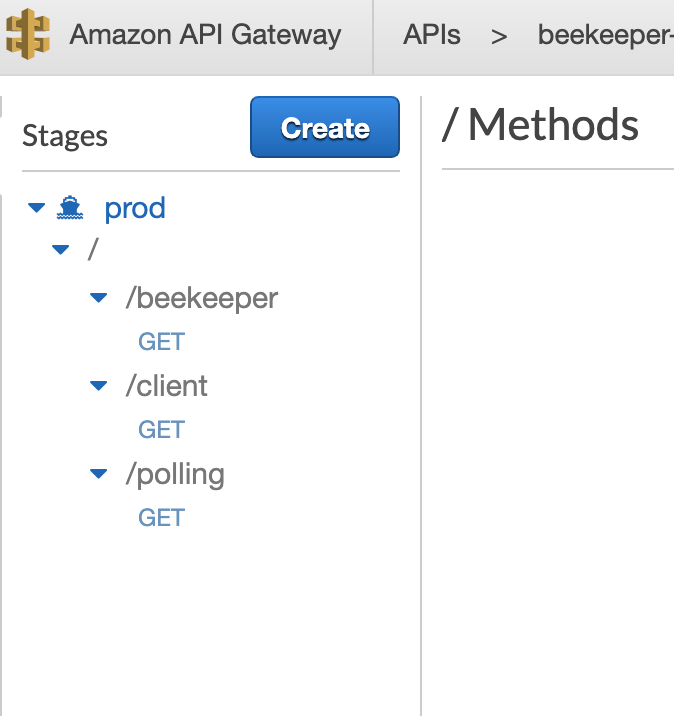
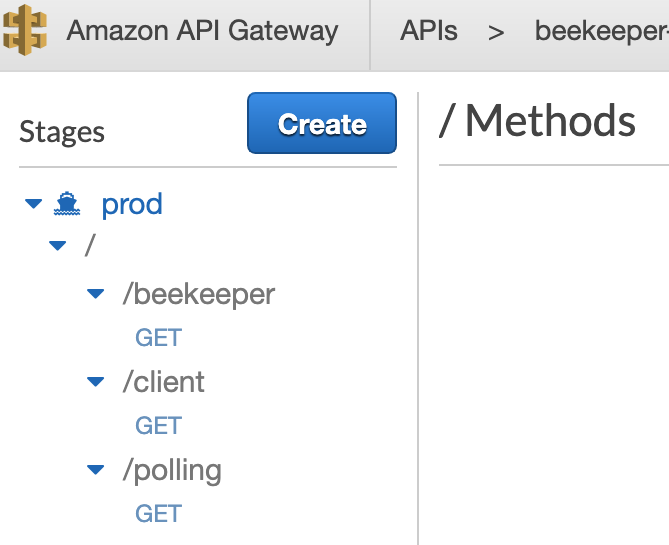
api gateway section edits

diff --git a/case-study.html b/case-study.html
@@ -178,7 +178,7 @@
           </div>
           <p>
             <strong>Step 3: The Producer Lambda is triggered.</strong>
-            A Lambda is a container that AWS spins up with your specified runtime environment, dependencies, and code in it. It’s a serverless compute service that runs code without having to provision resources or manage servers. The logic in the Producer Lambda does a few things. It first checks if the incoming request headers already have our cookie. If the incoming request does not have a cookie, a few additional steps take place. First, the Lambda generates a random token value. Second, the token is placed in a queue (SQS). Third, a cookie is set on the client with this token in it. Fourth, a response header is set that tells the browser when it receives the HTTP response from the API Gateway to redirect the client to the waiting room URL. This waiting room URL consists of static assets; an HTML file with JavaScript and CSS held in an AWS S3 bucket. We'll come back to this waiting room in the S3 bucket, but for now, let's continue by talking about what happens after the token gets put in the queue.
+            A Lambda is a container that AWS spins up with your specified runtime environment, dependencies, and code in it. It is a serverless compute service that runs code without having to provision resources or manage servers. The logic in the Producer Lambda does a few things. It first checks if the incoming request headers already have our cookie. If the incoming request does not have a cookie, a few additional steps take place. First, the Lambda generates a random token value. Second, the token is placed in a queue (SQS). Third, a cookie is set on the client with this token in it. Fourth, a response header is set that tells the browser when it receives the HTTP response from the API Gateway to redirect the client to the waiting room URL. This waiting room URL consists of static assets; an HTML file with JavaScript and CSS held in an AWS S3 bucket. We'll come back to this waiting room in the S3 bucket, but for now, let's continue by talking about what happens after the token gets put in the queue.
           </p>
           <div class="case-study-image">
             <img src="assets/images/case-study/beekeeper-infrastructure-flow/infra-flow-4.png" alt="infrastructure diagram step 4">
@@ -280,9 +280,6 @@
             For the vast majority of situations, even global promotions with a user in Hong Kong and an infrastructure in the United States, users will have the waiting room page loaded in an acceptable amount of time that does not give a "broken" feeling. Further, most events/promotions will have a more regional use case, typically within the same country.
           </p>
           <p>
-            In summary, a) there is little upside unless something about "hurry up to wait" sounds appealing, and b) most promotions are going to be regional in nature anyway.
-          </p>
-          <p>
             The extra complexity of making the waiting room and all its services edge optimized did not provide a commensurate benefit for Beekeeper given that it is a "waiting room." All Beekeeper's AWS services are located in a single region to be specified by Seal Brewing when deploying our NPM package; they can choose from one of 25 different AWS locations to deploy the infrastructure.
           </p>
           <p>
@@ -290,31 +287,22 @@
           </p>
           <h3>5.2 Choosing API Gateway</h3>
           <p>
-            When we first started designing Beekeeper we began with an infrastructure based on a waiting room in an S3 bucket on a CloudFront distribution. However, we still needed some logic in a Lambda and the only way to trigger a Lambda with that approach was using one of the CloudFront triggers AWS offers. That approach lacked flexibility because triggering a Lambda with a CloudFront trigger in our original design only allows logic to take place in the Lambda code. This means a Lambda must be used for every kind of request. Instead, we chose to use a different service offered by AWS called API Gateway. API Gateway is more flexible and powerful. Here's what the interface looks like in the AWS console:
+            When we first started designing Beekeeper we began with an infrastructure based on a waiting room in an S3 bucket on a CloudFront distribution. However, we still needed some logic in a Lambda and the only way to trigger a Lambda with that approach was using one of the CloudFront triggers AWS offers. That approach lacked flexibility because triggering a Lambda with a CloudFront trigger in our original design only allows logic to take place in the Lambda code. This means a Lambda must be used for every kind of request. Instead, we chose to use a different service offered by AWS called API Gateway. API Gateway is more flexible and powerful.
           </p>
-          <div class="case-study-image">
-            <img src="assets/images/case-study/api-gateway-screenshot.png" alt="api Gateway screenschot">
+          <div class="case-study-image api-images">
+            <img src="assets/images/case-study/Api_hub.png" alt="api Gateway hub">
           </div>
           <p>
-            What makes API Gateway powerful is how it provides an opportunity to perform checks and modify data at different stages of the HTTP request/response cycle. After a request from a client comes in, actions can be taken at both the Method Request and Integration Request stage before the request even gets to the Lambda being triggered. After the Lambda completes and passes the response back to the API Gateway, actions can be taken at both the Integration and Method Response stages before finally, the API Gateway sends a response back to the client.
+            What makes API Gateway powerful is it provides an opportunity to perform checks and modify data at different stages of the HTTP request/response cycle.  API Gateway's flexibility allows it to proxy directly with other services, obviating the need for additional lambdas.  Our API Gateway leverages this power and flexibility to create a central hub that exposes three distinct routes for interacting with the beekeeeper infrastructure.
           </p>
-          <p>
-            There are five places to take action; two after the request but before the Lambda, in the Lambda itself, and two after the Lambda but before the response goes back. As described below, API Gateway allows us to skip the use of a Lambda for the "/polling" route. Given that AWS sets a 1,000 concurrency limit on the number of Lambdas that can be allocated in a given region, avoiding the use of Lambdas is beneficial because it allows capacity to be retained that can be used elsewhere in the infrastructure. This means the infrastructure as a whole can handle more traffic.
-          </p>
-          <h4>5.2.1 "/beekeeper" Endpoint</h4>
-          <pre><code>
-  https://mn7wdl9e89.execute-api.us-east-2.amazonaws.com/prod/beekeeeper
-          </code></pre>
+          <div class="case-study-image api-images" id="api-screenshot">
+            <img src="assets/images/case-study/api-gateway-screenshot.png" alt="api Gateway screenschot">
+          </div>
+          <h4>5.2.1 <code>/beekeeper</code></h4>
           <p>
             Lambas have an option to be triggered as a proxy integration. Choosing a proxy integration means that API Gateway will forward the unmodified request in its entirety to the Lambda code. Not choosing proxy integration means that the API Gateway can make modifications to the request, such as creating and transforming data, and then sending that modified data to the Lambda. We use proxy integration and trigger a Lambda (Producer Lambda) for new users hitting the initial endpoint. The Producer Lambda checks the incoming request's headers for the existence of the cookie and if it's not present, the Producer Lambda generates a token and creates a response header setting a cookie with that token in it. The Producer Lambda then sets other headers relating to Content-Type, Location, and various Access-Control-Allow headers. The Producer Lambda also sets the response status code to 302 indicating a redirect. Once this custom object is formed, the Producer Lambda responds to API Gateway with it via the proxy integration and API Gateway in turn responds to the client causing a redirect to the waiting room URL which is an endpoint representing the static asset in S3.
           </p>
-          <h4>5.2.2 "/polling" Endpoint and "/client" Endpoint</h4>
-          <pre><code>
-  https://mn7wdl9e89.execute-api.us-east-2.amazonaws.com/prod/polling
-          </code></pre>
-          <pre><code>
-  https://mn7wdl9e89.execute-api.us-east-2.amazonaws.com/prod/client
-          </code></pre>
+          <h4>5.2.2 <code>/polling </code> and <code> /client</code></h4>
           <p>
             This is where API Gateway became very useful. Client-side JavaScript in the S3 bucket (the waiting room) polls this endpoint every 20 seconds with AJAX requests. API Gateway needs to query the database but that is simple enough logic that AWS allows us to do it without triggering a Lambda. Instead, AWS empowers API Gateway to directly query a database.
           </p>

diff --git a/assets/css/style.css b/assets/css/style.css
@@ -523,6 +523,7 @@ label {
   border-radius: 5px;
   /* display: block;
   width: 60%; */
+  /* width: 80%; */
   position: relative;
   background: #ffffff;
   padding: 10px;
@@ -561,6 +562,10 @@ label {
     rgba(26, 38, 52, 0.5),
     rgba(255, 204, 0, 1)
   );
+}
+
+#api-screenshot {
+  width: 50%;
 }
 
 .large-image {
